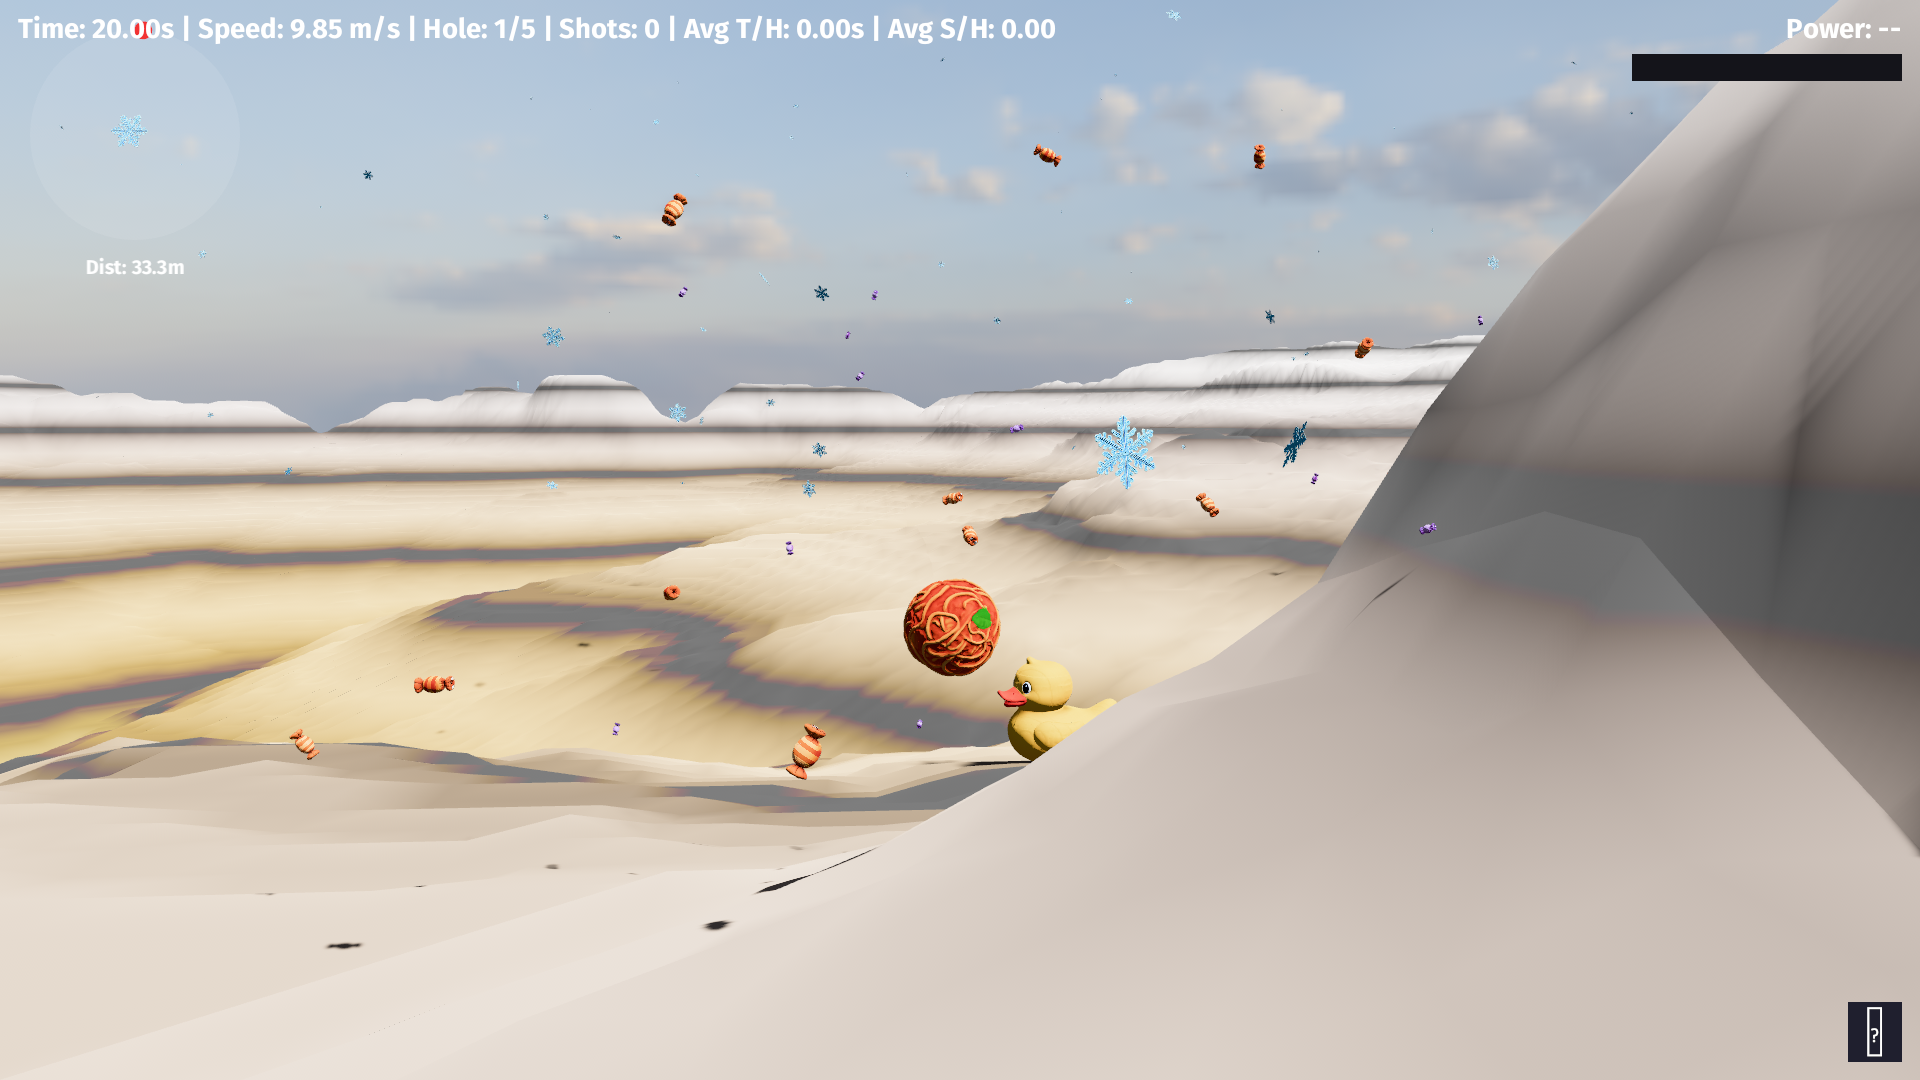
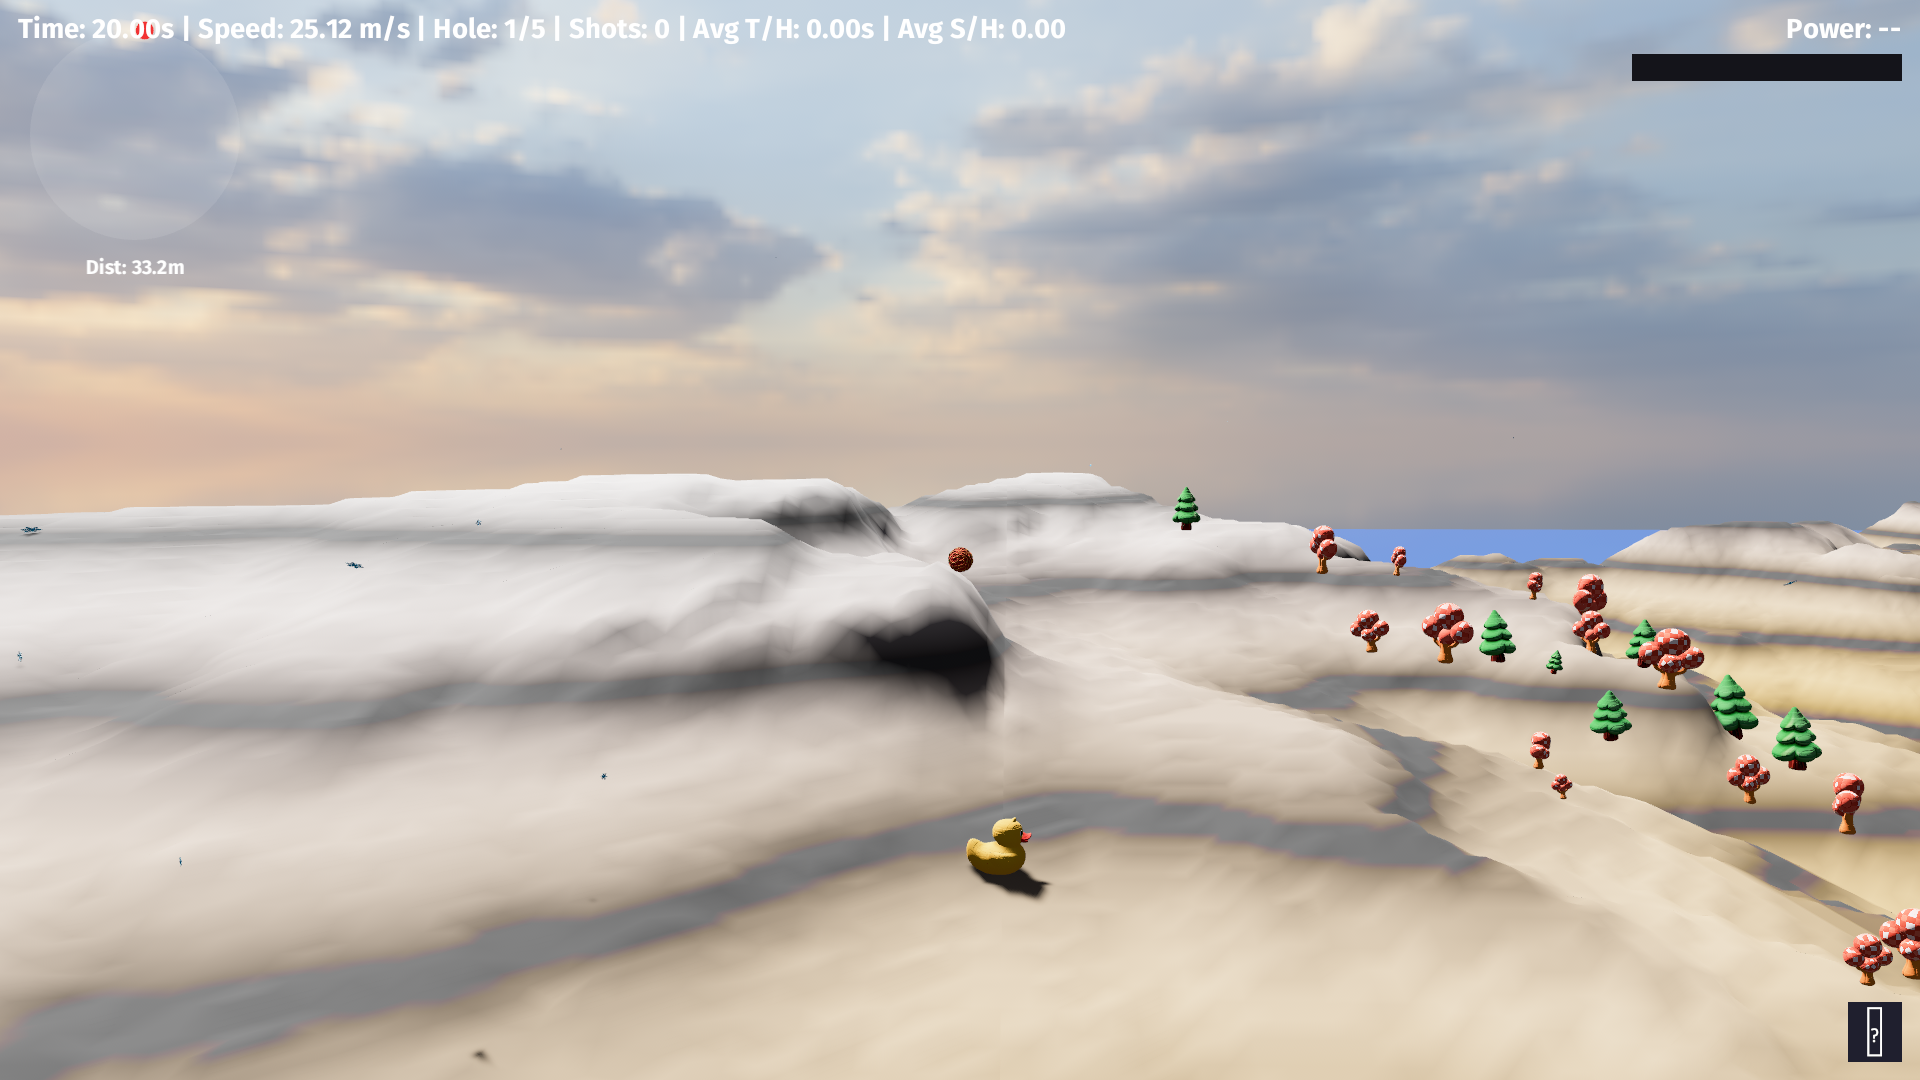
clean up

diff --git a/src/plugins/camera.rs b/src/plugins/camera.rs
@@ -221,6 +221,7 @@ fn menu_camera_flight(
     sampler: Option<Res<TerrainSampler>>,
     mut q_cam: Query<&mut Transform, With<OrbitCamera>>,
 ) {
+    // Only active in menu.
     if !matches!(phase.map(|p| *p), Some(GamePhase::Menu)) {
         return;
     }
@@ -229,44 +230,49 @@ fn menu_camera_flight(
     };
 
     let dt = time.delta_seconds();
-    let t = {
-        flight.t += dt;
-        flight.t
-    };
+    flight.t += dt;
 
-    // Heading wander (layered low‑freq sines)
-    let wander = (t * 0.05).sin() * 0.35
-        + (t * 0.083).cos() * 0.18
-        + (t * 0.021).sin() * 0.12;
-    flight.heading += wander * dt;
-
-    // Forward velocity (gently varying)
-    let base_speed = 26.0;
-    let speed_variation = 6.0 * (t * 0.23).sin() + 3.0 * (t * 0.11).cos();
-    let speed = (base_speed + speed_variation).max(2.0);
-
-    // Advance position
-    let forward_flat = Vec3::new(flight.heading.cos(), 0.0, flight.heading.sin());
-    flight.pos += forward_flat * speed * dt;
-
-    // Vertical profile: base + bob + terrain follow
-    let bob = (t * 0.37).sin() * 3.0 + (t * 0.19).cos() * 1.2;
-    let mut desired_y = 18.0 + bob;
     if let Some(s) = &sampler {
-        let ground = s.height(flight.pos.x, flight.pos.z);
-        let terrain_clear = ground + 12.0; // keep ~12 units above terrain + bob
-        if desired_y < terrain_clear {
-            desired_y = terrain_clear;
-        }
+        // Heightmap spans [-world_size/2, +world_size/2] in both X & Z.
+        let world_size = s.cfg.heightmap_world_size;
+        let half = world_size * 0.5;
+
+        // Radius chosen to comfortably fit full island (diagonal ~ world_size * sqrt(2)).
+        // Extra padding factor so edges remain in frame.
+        let radius = half * 1.3; // e.g. 1000 * 1.3 = 1300
+
+        // Base altitude and gentle vertical bob.
+        let base_height = half * 0.8; // e.g. 800 for 2 km world
+        let bob = (flight.t * 0.15).sin() * 40.0 + (flight.t * 0.07).cos() * 25.0;
+        let y = base_height + bob;
+
+        // Constant angular velocity for smooth orbit (~60s per revolution).
+        let ang_speed = std::f32::consts::TAU / 60.0; // rad/sec
+        flight.heading = (flight.heading + ang_speed * dt) % std::f32::consts::TAU;
+
+        // Position on horizontal circle.
+        let x = radius * flight.heading.cos();
+        let z = radius * flight.heading.sin();
+        flight.pos = Vec3::new(x, y, z);
+
+        // Focus point: center of island slightly above ground for nicer composition.
+        let center_height = s.height(0.0, 0.0);
+        let focus = Vec3::new(0.0, center_height + 80.0, 0.0);
+
+        cam_t.translation = flight.pos;
+        cam_t.look_at(focus, Vec3::Y);
+    } else {
+        // Fallback (no sampler yet): simple slow spin at fixed params.
+        let ang_speed = std::f32::consts::TAU / 80.0;
+        flight.heading = (flight.heading + ang_speed * dt) % std::f32::consts::TAU;
+        let radius = 800.0;
+        let y = 600.0 + (flight.t * 0.2).sin() * 50.0;
+        let x = radius * flight.heading.cos();
+        let z = radius * flight.heading.sin();
+        flight.pos = Vec3::new(x, y, z);
+        cam_t.translation = flight.pos;
+        cam_t.look_at(Vec3::new(0.0, 80.0, 0.0), Vec3::Y);
     }
-    // Smooth Y toward desired to avoid abrupt jumps.
-    flight.pos.y = flight.pos.y.lerp(desired_y, (dt * 1.5).clamp(0.0, 1.0));
-
-    cam_t.translation = flight.pos;
-
-    // Look ahead along path with slight downward tilt.
-    let look_target = flight.pos + forward_flat * 60.0 + Vec3::new(0.0, -8.0, 0.0);
-    cam_t.look_at(look_target, Vec3::Y);
 }
 
 fn camera_phase_transition(
